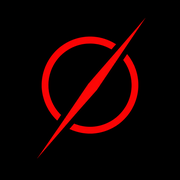
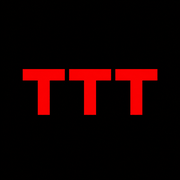
앱 아이콘(로고) 재교체 — TTT 텍스트 로고 (#499)
Claude-Session: https://claude.ai/code/session_01TNoGCWRQtXcfdnQwZ6HvCX

Changed region(s): [[0.1111, 0.1389, 0.8889, 0.8611], [0.7778, 0.0833, 0.8056, 0.1389], [0.1944, 0.8611, 0.2222, 0.8889]]

diff --git a/index.html b/index.html
@@ -10356,7 +10356,7 @@ const settingsHeaderName = document.getElementById("settingsHeaderName");
 const settingsHeaderSub = document.getElementById("settingsHeaderSub");
 
 /* ✅ 앱 버전 정의 — 의미 있는 수정/배포마다 올림(설정 화면에서 "최신 버전 받았는지" 확인용) */
-const APP_VERSION = "0.9.18";
+const APP_VERSION = "0.9.19";
 const appVersionDisplay = document.getElementById("appVersionDisplay");
 if (appVersionDisplay) {
   appVersionDisplay.textContent = APP_VERSION;

diff --git a/sw.js b/sw.js
@@ -1,4 +1,4 @@
-const CACHE = "mf-v8"; // 🔥 앱 아이콘(로고) 이미지 교체 — 캐시 우선으로 서빙되는 아이콘 파일이 바뀌었으니 캐시 이름을 올려서 새로 받아오게 함
+const CACHE = "mf-v9"; // 🔥 앱 아이콘(로고) 이미지 재교체(TTT 텍스트 로고) — 캐시 이름을 다시 올려서 새로 받아오게 함
 const ASSETS = [
   "/",
   "/index.html",
